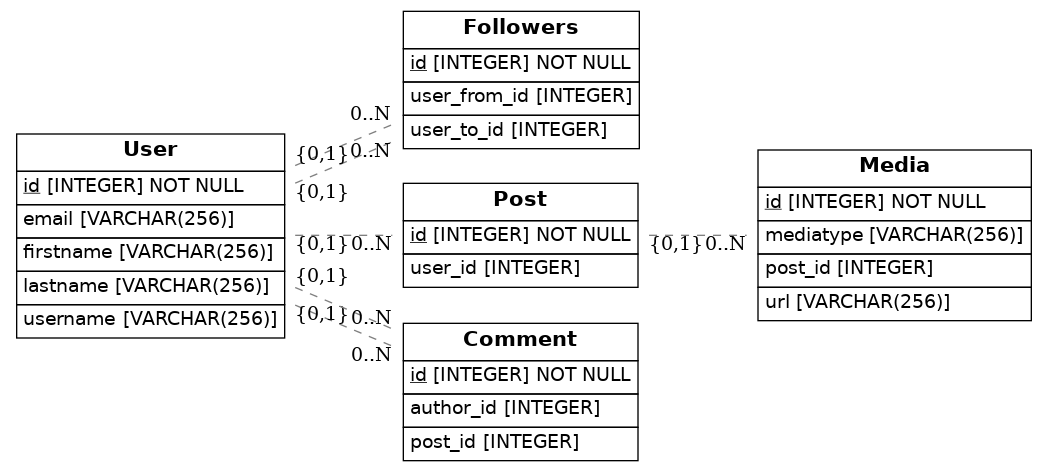
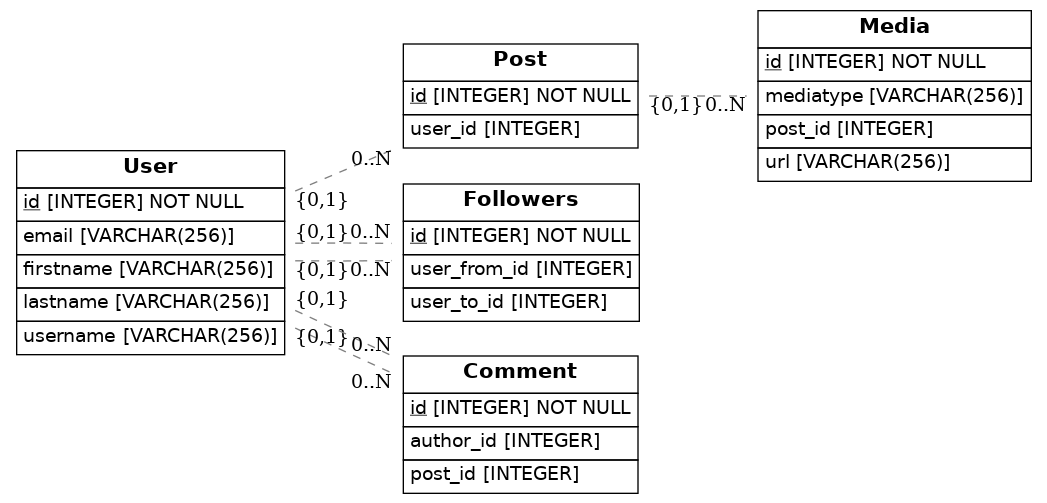
saving progress

Changed region(s): [[0.0, 0.0, 1.0, 1.0]]

diff --git a/src/models.py b/src/models.py
@@ -29,11 +29,6 @@ Base = declarative_base()
     # def to_dict(self):
     #     return {}
 
-class Followers(Base): 
-    __tablename__ = "Followers"
-    id=Column(Integer, primary_key=True)
-    user_from_id = Column(Integer, ForeignKey("User.id"))
-    user_to_id = Column(Integer, ForeignKey("User.id"))
     
 class User(Base) :
     __tablename__="User"
@@ -42,11 +37,20 @@ class User(Base) :
     firstname = Column(String (256))  
     lastname = Column(String (256))  
     email = Column(String (256)) 
+    post = relationship("Post")
+    comment = relationship("Comment", backref='User', lazy=True)
+    post = relationship('Post', backref='User', lazy=True)
     
 class Post(Base) :
     __tablename__="Post"
     id=Column(Integer, primary_key=True)
     user_id = Column(Integer, ForeignKey("User.id"))
+
+class Followers(Base): 
+    __tablename__ = "Followers"
+    id=Column(Integer, primary_key=True)
+    user_from_id = Column(Integer, ForeignKey("User.id"))
+    user_to_id = Column(Integer, ForeignKey("User.id"))
 
 class Media(Base) :
     __tablename__="Media"
@@ -59,9 +63,8 @@ class Comment(Base) :
     __tablename__="Comment"
     id = Column(Integer, primary_key=True)
     author_id = Column(Integer, ForeignKey("User.id"))
-    post_id = Column(Integer, ForeignKey("User.id")) 
+    post_id = Column(Integer, ForeignKey("User.id"))
 
-             
 
 ## Draw from SQLAlchemy base
 try:
